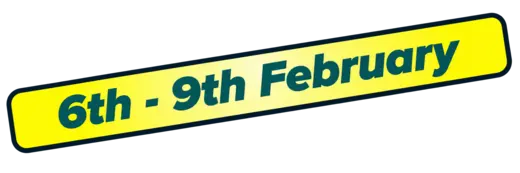
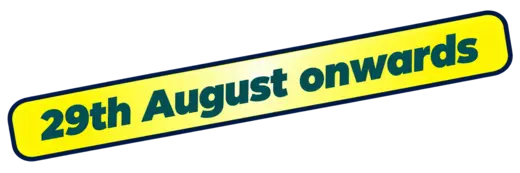
Refine compact animated Big Bang sale hero

Changed region(s): [[0.0, 0.0578, 1.0, 0.9538]]

diff --git a/brand-refresh.css b/brand-refresh.css
@@ -13,3 +13,14 @@
 #bundle,.feed,.rewards{display:none}
 @media(max-width:960px){.quick-links{grid-template-columns:repeat(4,1fr)}}
 @media(max-width:680px){.announcement{gap:11px;padding:8px;font-size:8px}.hero{height:330px}.hero-copy{left:18px;top:48%}.hero-copy:before{width:210px}.hero-copy:after{width:160px;height:54px;margin:-10px 0 0 25px}.offer{width:94px;right:15px}.offer b{font-size:35px}.offer span{font-size:7px}.sale-catalog{padding-top:22px}.sale-tabs button{padding:11px 17px;font-size:11px}.quick-links{grid-template-columns:repeat(4,1fr);gap:6px;margin-bottom:16px}.quick-links a{min-height:43px;font-size:8px}.launch{padding-top:34px}}
+
+/* Compact, fully visible campaign stage. */
+.hero{height:306px}
+.hero video{filter:saturate(.88) contrast(.94) brightness(1.05)}
+.hero:after{display:block;pointer-events:none;background:linear-gradient(90deg,rgba(255,255,255,.78) 0%,rgba(255,255,255,.38) 38%,rgba(255,255,255,.08) 72%,transparent 100%)}
+.hero-copy{left:9%;top:50%}
+.hero-copy:before{width:min(225px,21vw);filter:drop-shadow(0 7px 12px #00114a70);transform-origin:50% 34%;animation:mark-breathe 3.6s ease-in-out infinite}
+.hero-copy:after{width:min(210px,19vw);height:58px;margin:-12px 0 0 13px;background-image:url('assets/bigbang-date-ribbon.webp')}
+.offer{display:none}
+@keyframes mark-breathe{0%,100%{transform:scale(1)}50%{transform:scale(1.055)}}
+@media(max-width:680px){.hero{height:264px}.hero-copy{left:50%;top:50%;transform:translate(-50%,-50%);align-items:center}.hero-copy:before{width:158px}.hero-copy:after{width:150px;height:43px;margin:-8px 0 0 10px}}

diff --git a/index.html b/index.html
@@ -67,4 +67,5 @@ const promiseSection=document.querySelector('.trust').closest('section');
 promiseSection.classList.add('shell');playthingsSection.after(promiseSection);
 document.querySelector('footer').id='footer';
 document.querySelector('.feed').closest('section').style.display='none';
+document.querySelector('#notice strong').textContent='The sale starts 29th August.';
 </script></body></html>
